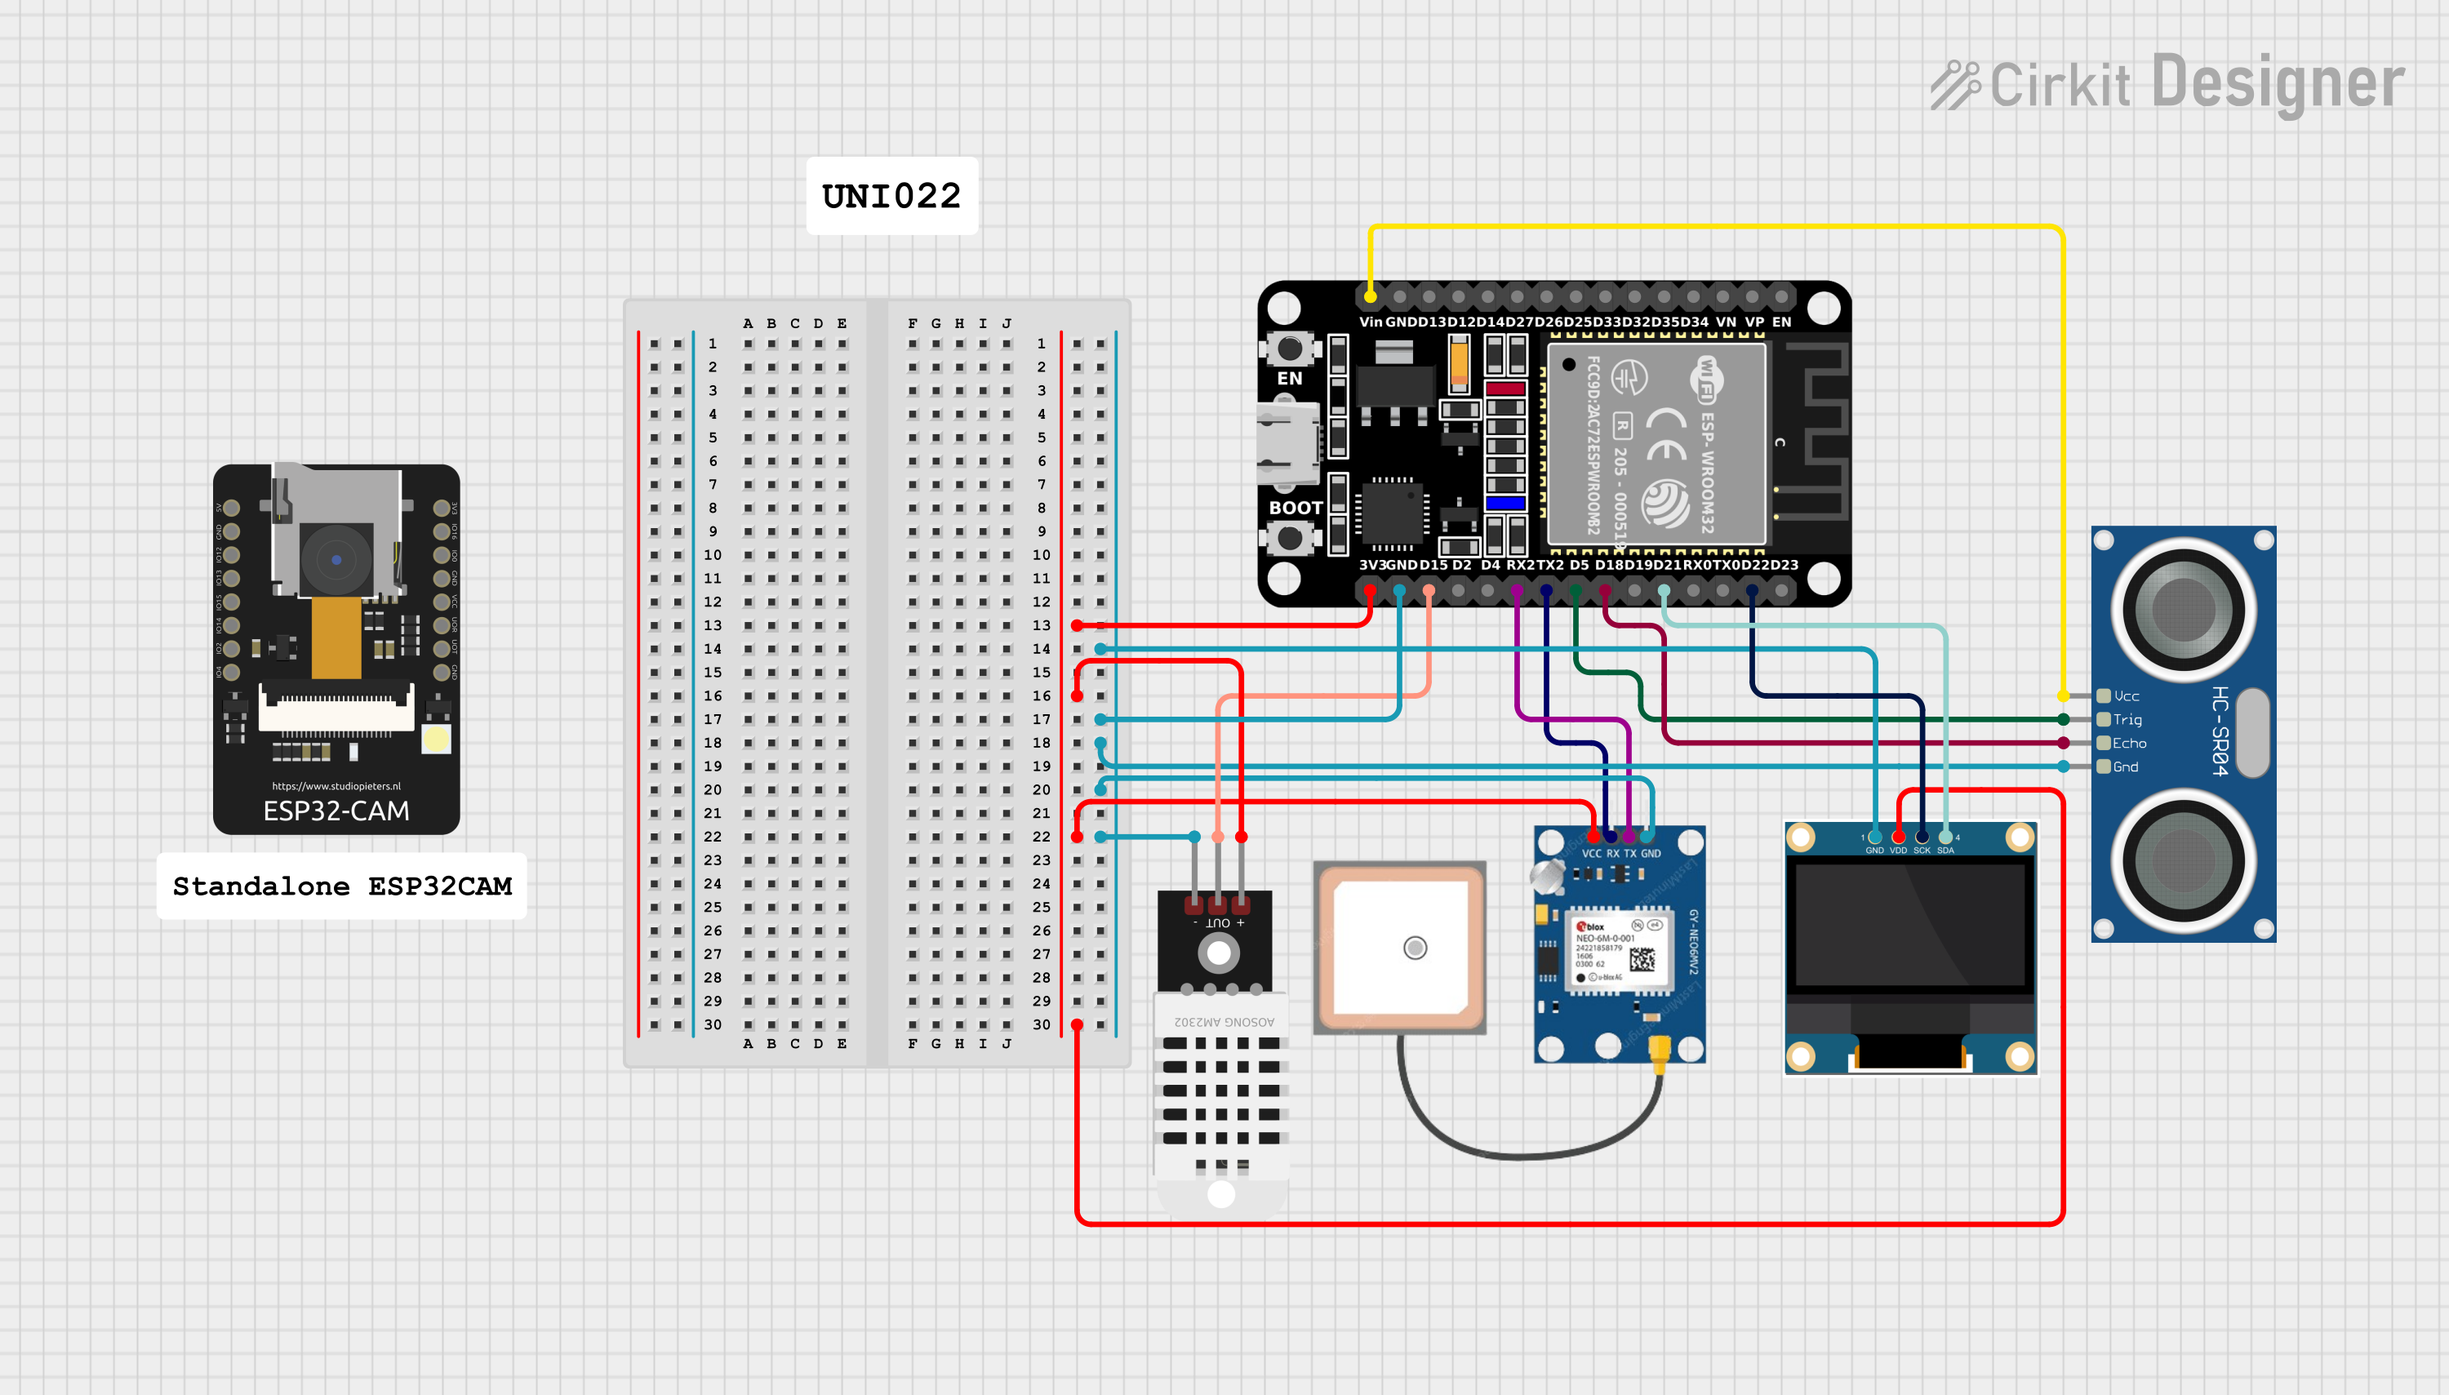
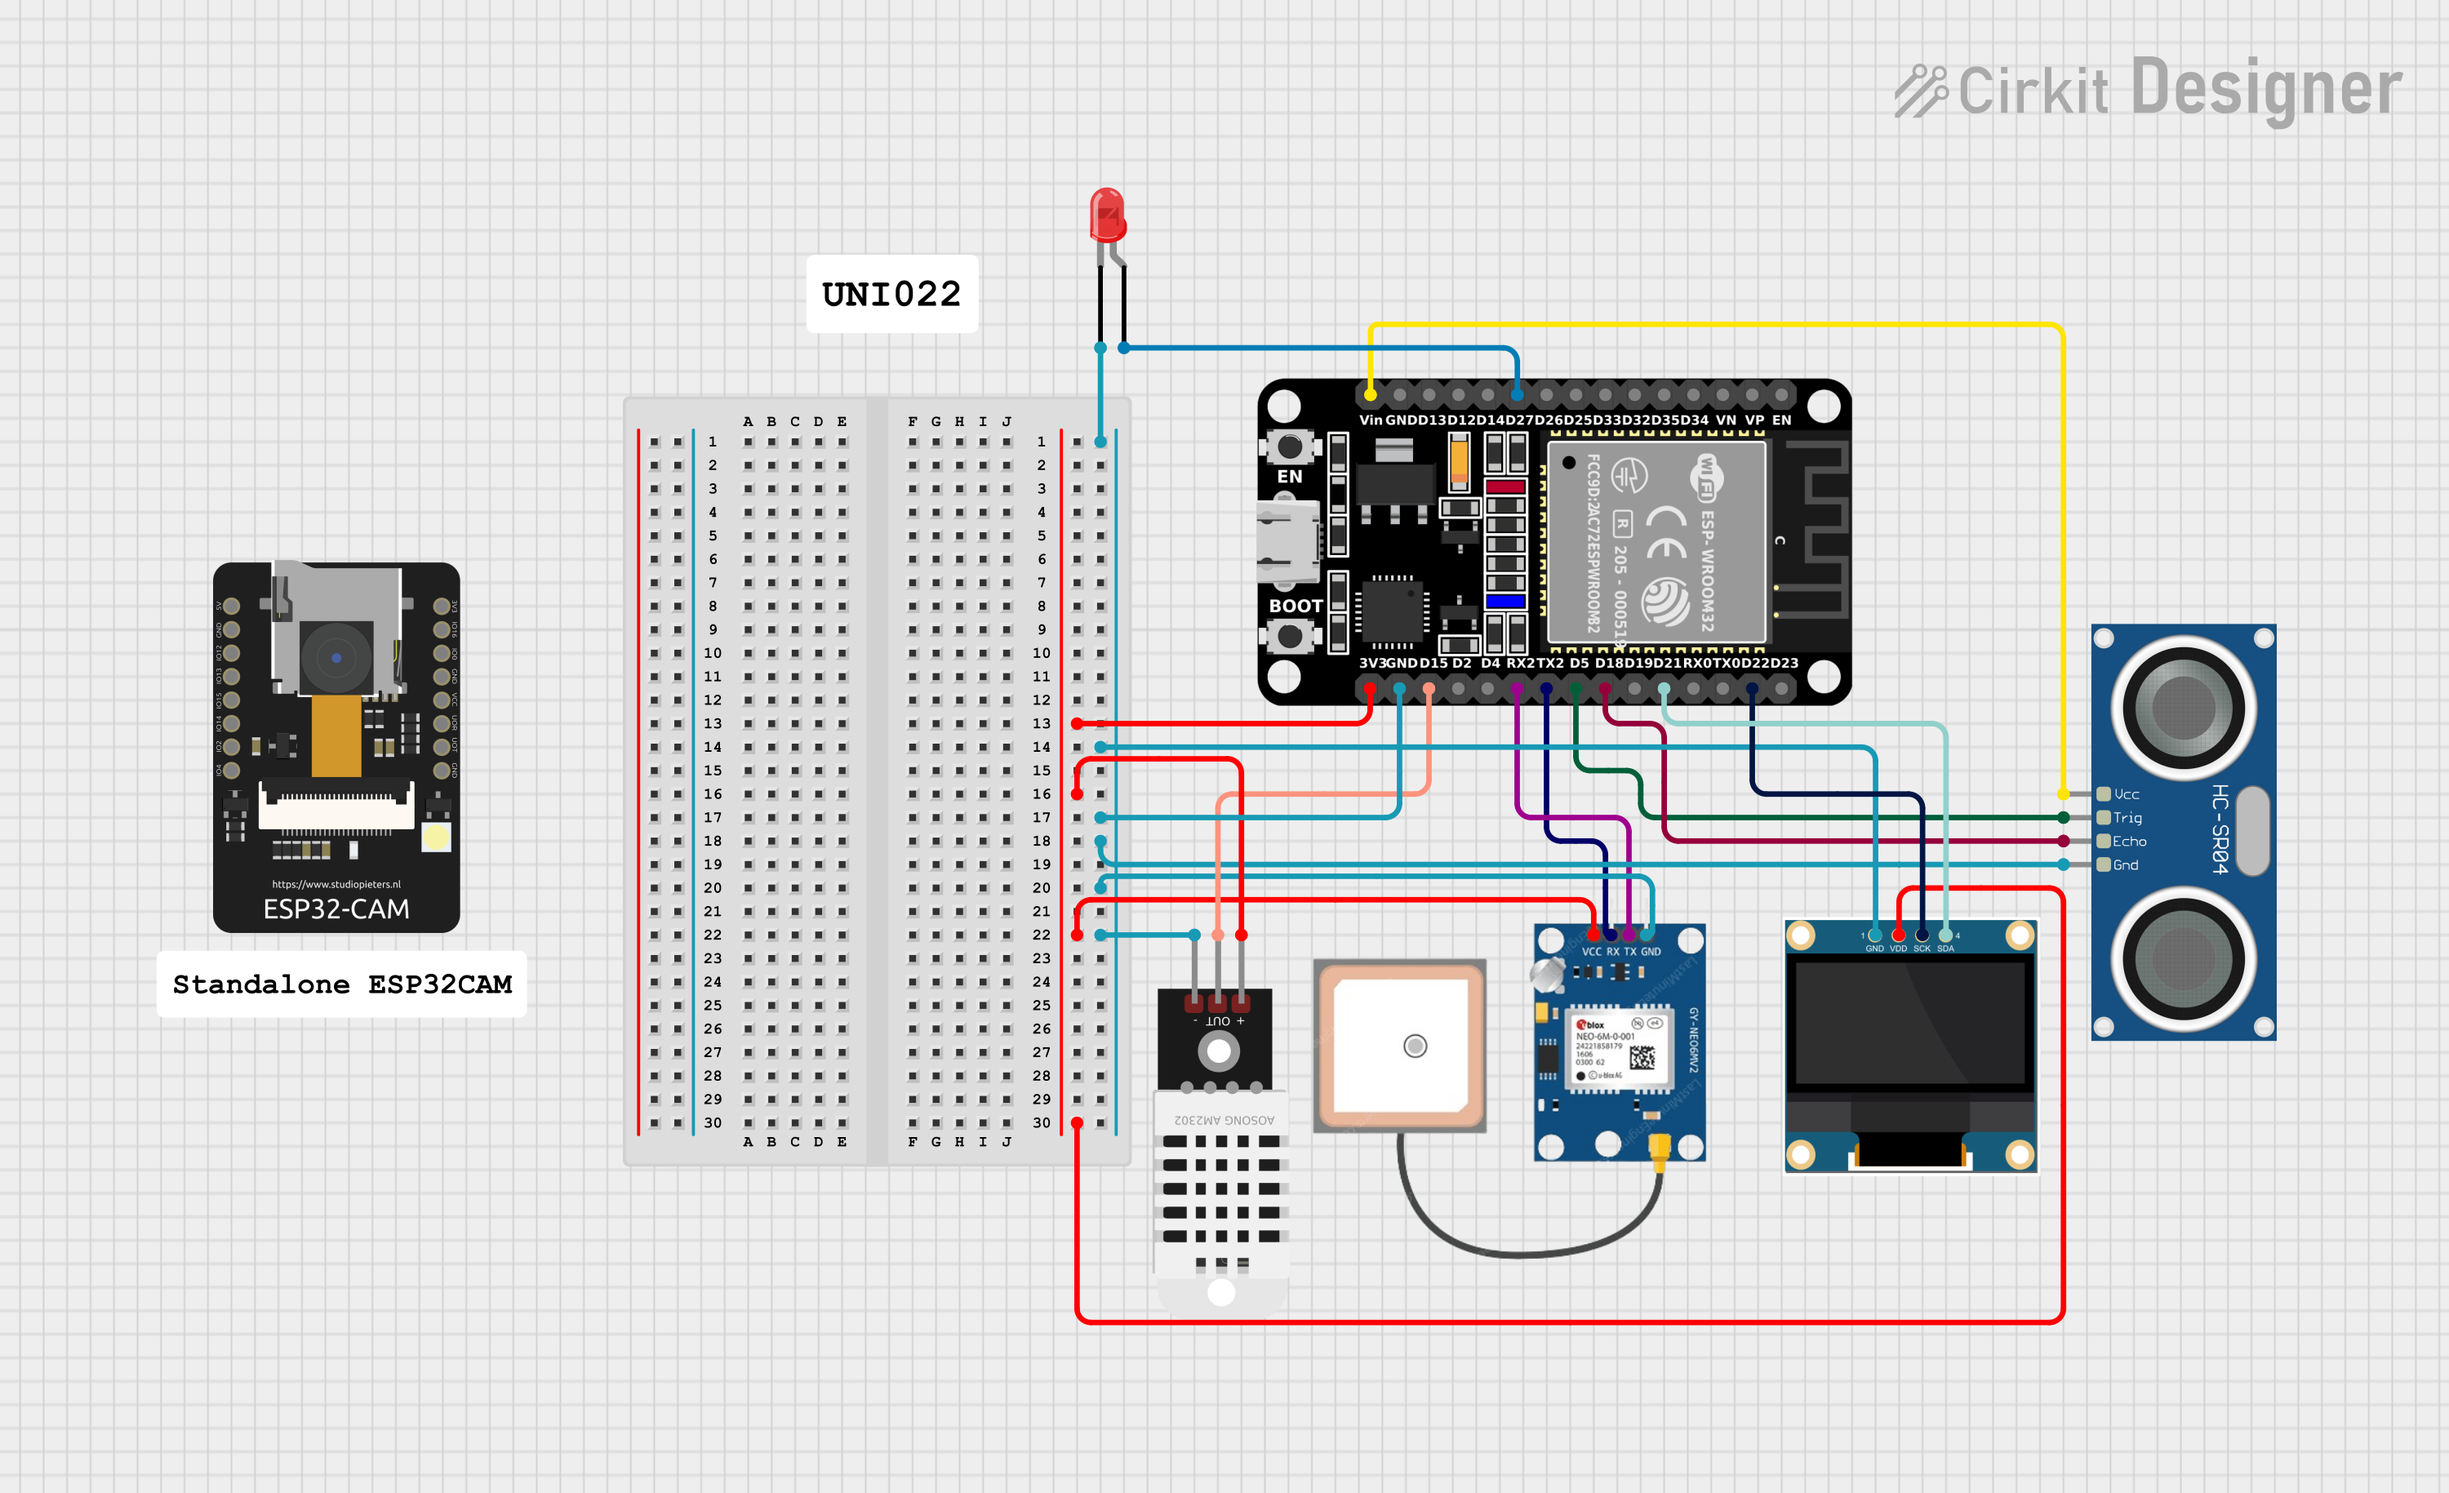
docs: final documentation

Changed region(s): [[0.248, 0.093, 0.93, 0.8994], [0.062, 0.3101, 0.217, 0.6823], [0.775, 0.031, 0.992, 0.093]]

diff --git a/README.md b/README.md
@@ -293,3 +293,8 @@ Success (200)
 |  SCL          |  `GPIO 22` |
 |  SDA         |  `GPIO 21` |
 |  GND          |  `GND`         |
+
+| LED Indicator   | ESP32       |
+| ------------- | ------------- |
+|  +          |  `GPIO 27`       |
+|  -         |  `GND` |
